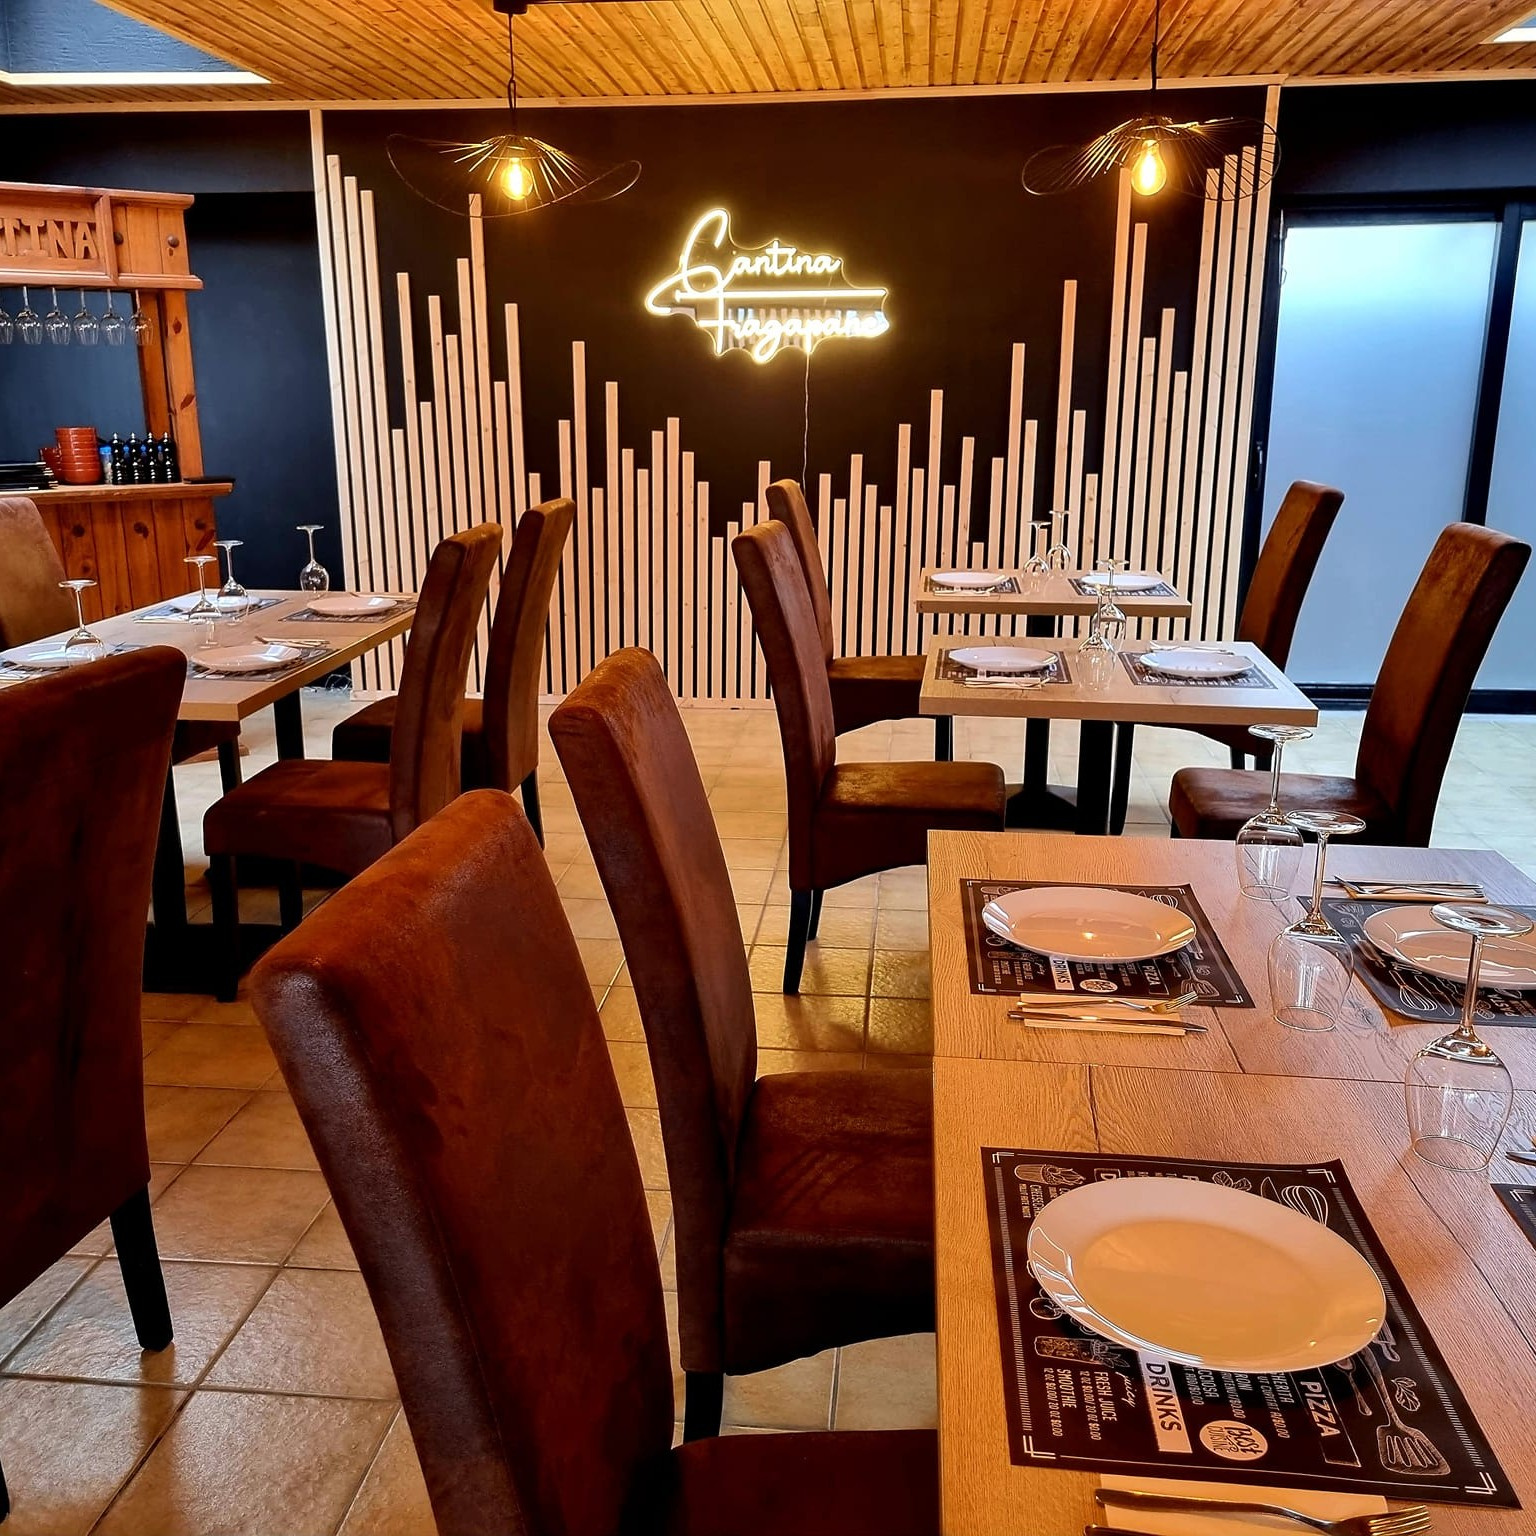
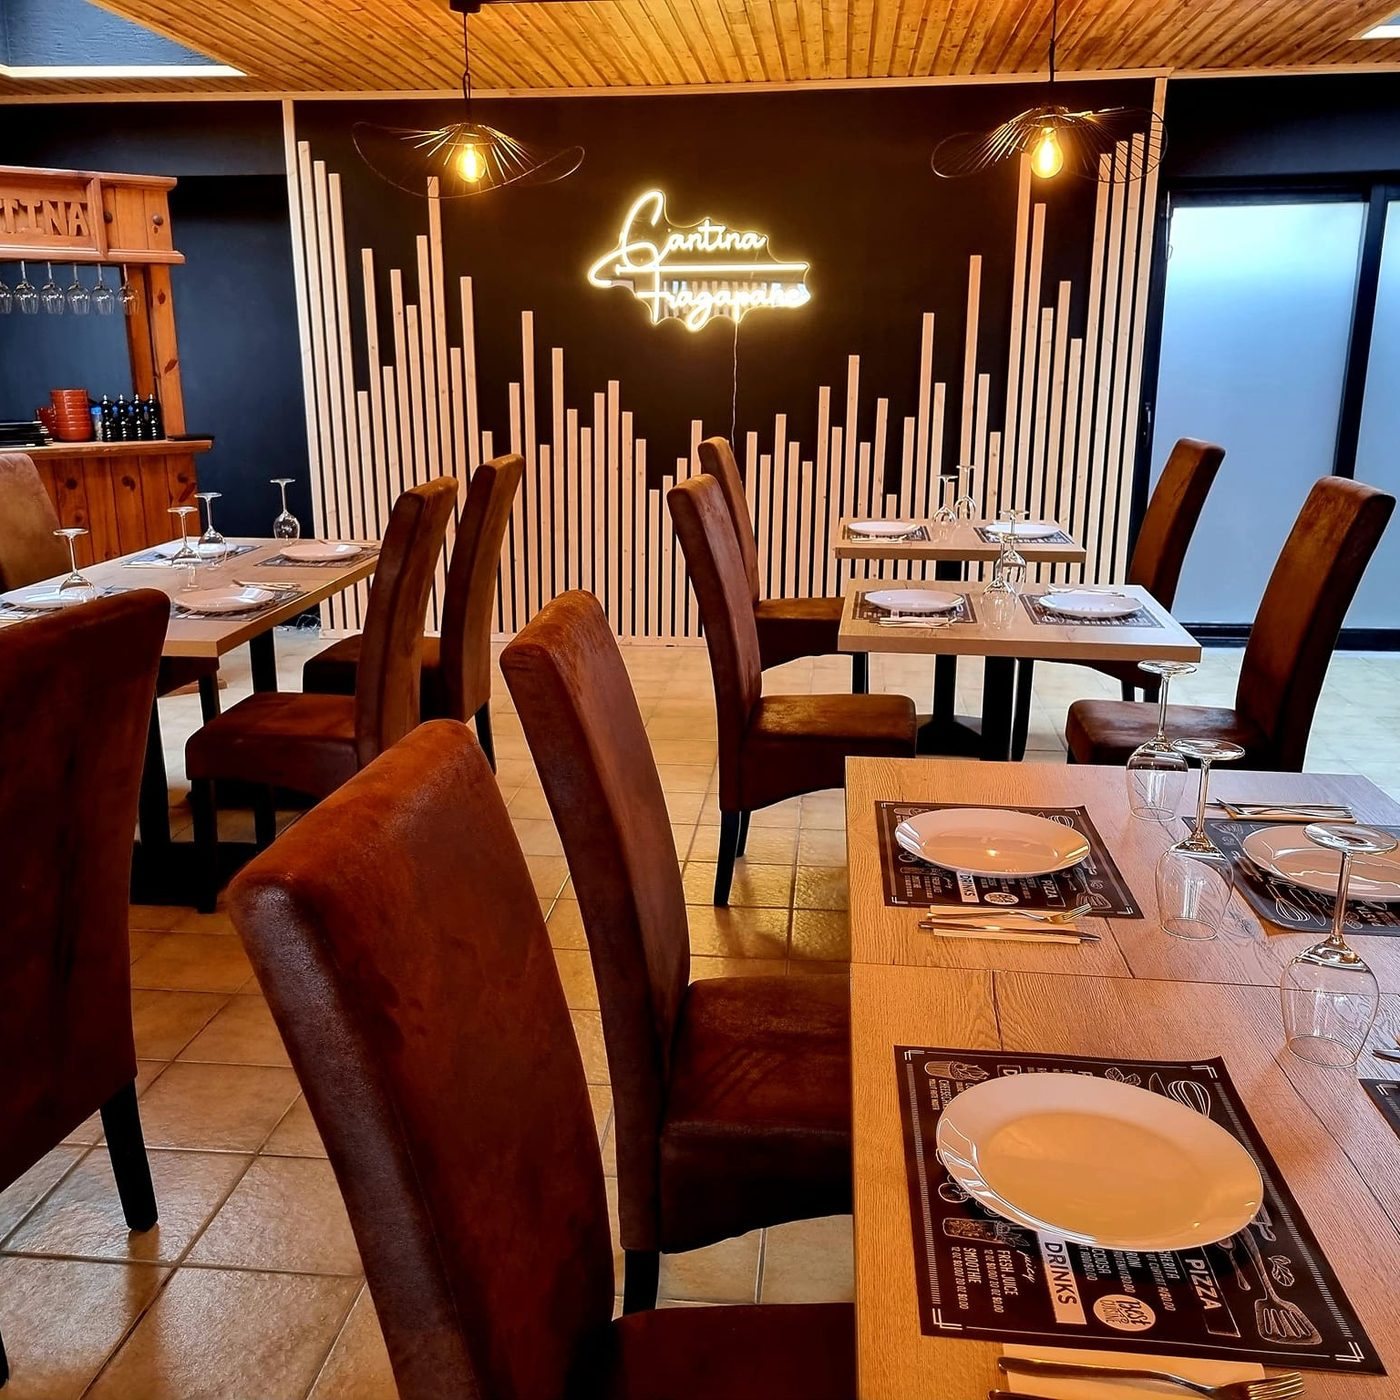
Ameliorations : email LWS (SSL/STARTTLS, robuste), cache statique + versioning assets, rate-limit admin (3 essais), en-tetes securite, hero 4.6, images allegees

diff --git a/templates/base.html b/templates/base.html
@@ -94,7 +94,7 @@
   <link rel="preconnect" href="https://fonts.googleapis.com">
   <link rel="preconnect" href="https://fonts.gstatic.com" crossorigin>
   <link href="https://fonts.googleapis.com/css2?family=Playfair+Display:ital,wght@0,400;0,600;0,700;1,400;1,600&family=Lato:wght@300;400;700&display=swap" rel="stylesheet">
-  <link rel="stylesheet" href="{{ url_for('static', filename='css/style.css') }}?v={{ now.strftime('%Y%m%d%H%M%S') }}">
+  <link rel="stylesheet" href="{{ url_for('static', filename='css/style.css') }}?v={{ asset_version }}">
   {% block extra_css %}{% endblock %}
 </head>
 <body>
@@ -241,7 +241,7 @@
   </button>
 
   <script>window.CANTINA_HOURS = {{ hours|tojson }};</script>
-  <script src="{{ url_for('static', filename='js/main.js') }}?v={{ now.strftime('%Y%m%d%H%M%S') }}"></script>
+  <script src="{{ url_for('static', filename='js/main.js') }}?v={{ asset_version }}"></script>
   {% block extra_js %}{% endblock %}
 </body>
 </html>

diff --git a/templates/admin/login.html b/templates/admin/login.html
@@ -7,7 +7,7 @@
   <link rel="preconnect" href="https://fonts.googleapis.com">
   <link rel="preconnect" href="https://fonts.gstatic.com" crossorigin>
   <link href="https://fonts.googleapis.com/css2?family=Playfair+Display:wght@700&family=Lato:wght@400;700&display=swap" rel="stylesheet">
-  <link rel="stylesheet" href="{{ url_for('static', filename='css/style.css') }}">
+  <link rel="stylesheet" href="{{ url_for('static', filename='css/style.css') }}?v={{ asset_version }}">
   <style>
     .code-input{
       width:100%; text-align:center; font-size:2rem; font-weight:700;

diff --git a/templates/index.html b/templates/index.html
@@ -26,7 +26,7 @@
     </div>
     <div class="hero-badges">
       <div class="hero-badge">
-        <div class="hero-badge-num">4.5★</div>
+        <div class="hero-badge-num">4.6★</div>
         <div class="hero-badge-lbl">Google Reviews</div>
       </div>
       <div class="hero-badge">

diff --git a/app.py b/app.py
@@ -4,7 +4,8 @@ import smtplib
 import pyotp
 import psycopg2
 import psycopg2.extras
-from datetime import datetime
+import time
+from datetime import datetime, timedelta
 from email.mime.text import MIMEText
 from email.mime.multipart import MIMEMultipart
 from functools import wraps
@@ -29,12 +30,33 @@ def save_upload(file_field):
 
 app = Flask(__name__)
 app.secret_key = os.environ.get('SECRET_KEY', 'cantina-fragapane-secret-2024')
-app.config['SEND_FILE_MAX_AGE_DEFAULT'] = 0
+app.config['SEND_FILE_MAX_AGE_DEFAULT'] = 2592000  # 30 j : cache des fichiers statiques (perf)
+ASSET_VERSION = str(int(time.time()))  # stable pour un déploiement, change à chaque redéploiement
 
 ADMIN_PASSWORD = os.environ.get('ADMIN_PASSWORD', 'fragapane2024')
 TOTP_SECRET = os.environ.get('TOTP_SECRET', '')   # Google Authenticator (secret base32)
 ADMIN_PIN = os.environ.get('ADMIN_PIN', '')       # PIN de secours à 6 chiffres
 SITE_URL = os.environ.get('SITE_URL', 'https://www.cantinafragapane.be')
+
+# ── Anti-brute-force sur /admin/login : 3 essais puis blocage temporaire ──
+LOGIN_MAX_ATTEMPTS = 3
+LOGIN_BLOCK_MINUTES = 15
+_login_attempts = {}   # ip -> {'count': int, 'until': datetime|None}
+
+def _client_ip():
+    return (request.headers.get('CF-Connecting-IP')
+            or request.headers.get('X-Forwarded-For', '').split(',')[0].strip()
+            or request.remote_addr or 'unknown')
+
+
+@app.after_request
+def _security_headers(resp):
+    resp.headers.setdefault('X-Content-Type-Options', 'nosniff')
+    resp.headers.setdefault('X-Frame-Options', 'SAMEORIGIN')
+    resp.headers.setdefault('Referrer-Policy', 'strict-origin-when-cross-origin')
+    resp.headers.setdefault('Permissions-Policy', 'geolocation=(), microphone=(), camera=()')
+    resp.headers.setdefault('Strict-Transport-Security', 'max-age=15552000')
+    return resp
 
 # Connexion PostgreSQL — on préfère les variables individuelles (plus fiables sur Railway)
 import urllib.parse as _urlparse
@@ -371,7 +393,7 @@ def get_open_status():
 # ── Email contact ─────────────────────────────────────────────────────────────
 
 def send_contact_email(name, sender_email, phone, message):
-    server   = os.environ.get('MAIL_SERVER', 'smtp.office365.com')
+    server   = os.environ.get('MAIL_SERVER', 'mail.cantinafragapane.be')
     port     = int(os.environ.get('MAIL_PORT', '587'))
     username = os.environ.get('MAIL_USERNAME', '')
     password = os.environ.get('MAIL_PASSWORD', '')
@@ -384,15 +406,27 @@ def send_contact_email(name, sender_email, phone, message):
     msg['From']    = username
     msg['To']      = to_addr
     msg['Subject'] = f'[Cantina Fragapane] Message de {name}'
+    if sender_email:
+        msg['Reply-To'] = sender_email
     body = (f"Nom : {name}\nEmail : {sender_email}\nTéléphone : {phone}\n\n"
             f"Message :\n{message}")
     msg.attach(MIMEText(body, 'plain', 'utf-8'))
 
-    with smtplib.SMTP(server, port, timeout=10) as srv:
-        srv.starttls()
-        srv.login(username, password)
-        srv.send_message(msg)
-    return True
+    # Un échec d'envoi ne doit JAMAIS casser la requête (la réservation est déjà enregistrée)
+    try:
+        if port == 465:  # SSL direct (LWS : 465 SSL)
+            with smtplib.SMTP_SSL(server, port, timeout=15) as srv:
+                srv.login(username, password)
+                srv.send_message(msg)
+        else:            # STARTTLS (LWS : 587)
+            with smtplib.SMTP(server, port, timeout=15) as srv:
+                srv.starttls()
+                srv.login(username, password)
+                srv.send_message(msg)
+        return True
+    except Exception as e:
+        app.logger.warning('Échec envoi email : %s', e)
+        return False
 
 
 # ── Context processors ────────────────────────────────────────────────────────
@@ -408,7 +442,7 @@ def inject_globals():
     open_status = get_open_status()
     hours_all = query('SELECT * FROM hours ORDER BY day_order')
     return dict(info=info, announcements=announcements, evenements=evenements,
-                open_status=open_status, hours=hours_all,
+                open_status=open_status, hours=hours_all, asset_version=ASSET_VERSION,
                 now=datetime.now(), site_url=SITE_URL)
 
 
@@ -619,7 +653,18 @@ def admin_login():
     if session.get('admin'):
         return redirect(url_for('admin_dashboard'))
     error = None
+    strong_auth = bool(TOTP_SECRET or ADMIN_PIN)
     if request.method == 'POST':
+        ip = _client_ip()
+        now = datetime.now()
+        rec = _login_attempts.get(ip, {'count': 0, 'until': None})
+
+        # Bloqué ?
+        if rec['until'] and rec['until'] > now:
+            mins = int((rec['until'] - now).total_seconds() // 60) + 1
+            error = f"Trop de tentatives. Réessayez dans {mins} min."
+            return render_template('admin/login.html', error=error, strong_auth=strong_auth)
+
         code = (request.form.get('code') or request.form.get('password') or '').strip().replace(' ', '')
         ok = False
         # 1) Code Google Authenticator (TOTP)
@@ -636,13 +681,24 @@ def admin_login():
         #    ni Google Authenticator ni PIN ne sont configurés (évite le blocage).
         if not ok and not TOTP_SECRET and not ADMIN_PIN and code and code == ADMIN_PASSWORD:
             ok = True
+
         if ok:
+            _login_attempts.pop(ip, None)
             session['admin'] = True
             flash("Bienvenue dans l'espace admin !", 'success')
             return redirect(url_for('admin_dashboard'))
-        error = 'Code incorrect. Réessayez.'
-    # Indique au template si l'authentification forte est active
-    strong_auth = bool(TOTP_SECRET or ADMIN_PIN)
+
+        # Échec → on compte, et on bloque après LOGIN_MAX_ATTEMPTS
+        rec['count'] += 1
+        if rec['count'] >= LOGIN_MAX_ATTEMPTS:
+            rec['until'] = now + timedelta(minutes=LOGIN_BLOCK_MINUTES)
+            rec['count'] = 0
+            error = f"Trop de tentatives. Connexion bloquée pendant {LOGIN_BLOCK_MINUTES} min."
+        else:
+            left = LOGIN_MAX_ATTEMPTS - rec['count']
+            error = f"Code incorrect. Il reste {left} essai{'s' if left > 1 else ''}."
+        _login_attempts[ip] = rec
+
     return render_template('admin/login.html', error=error, strong_auth=strong_auth)
 
 
